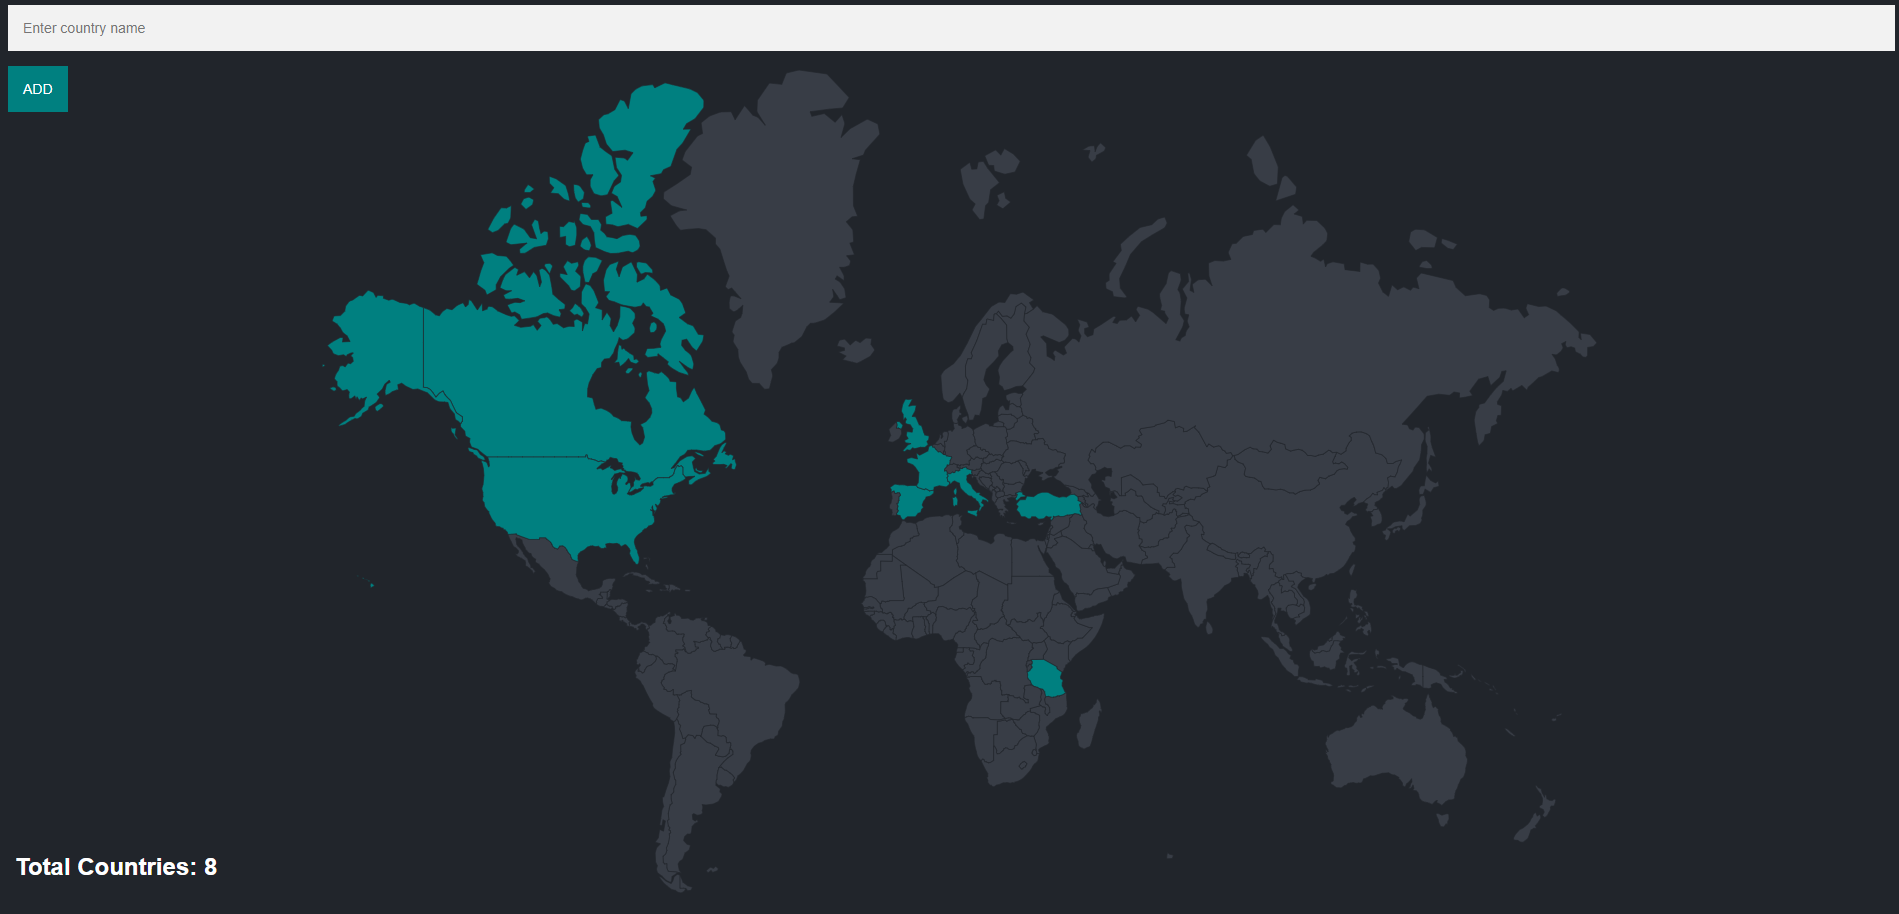
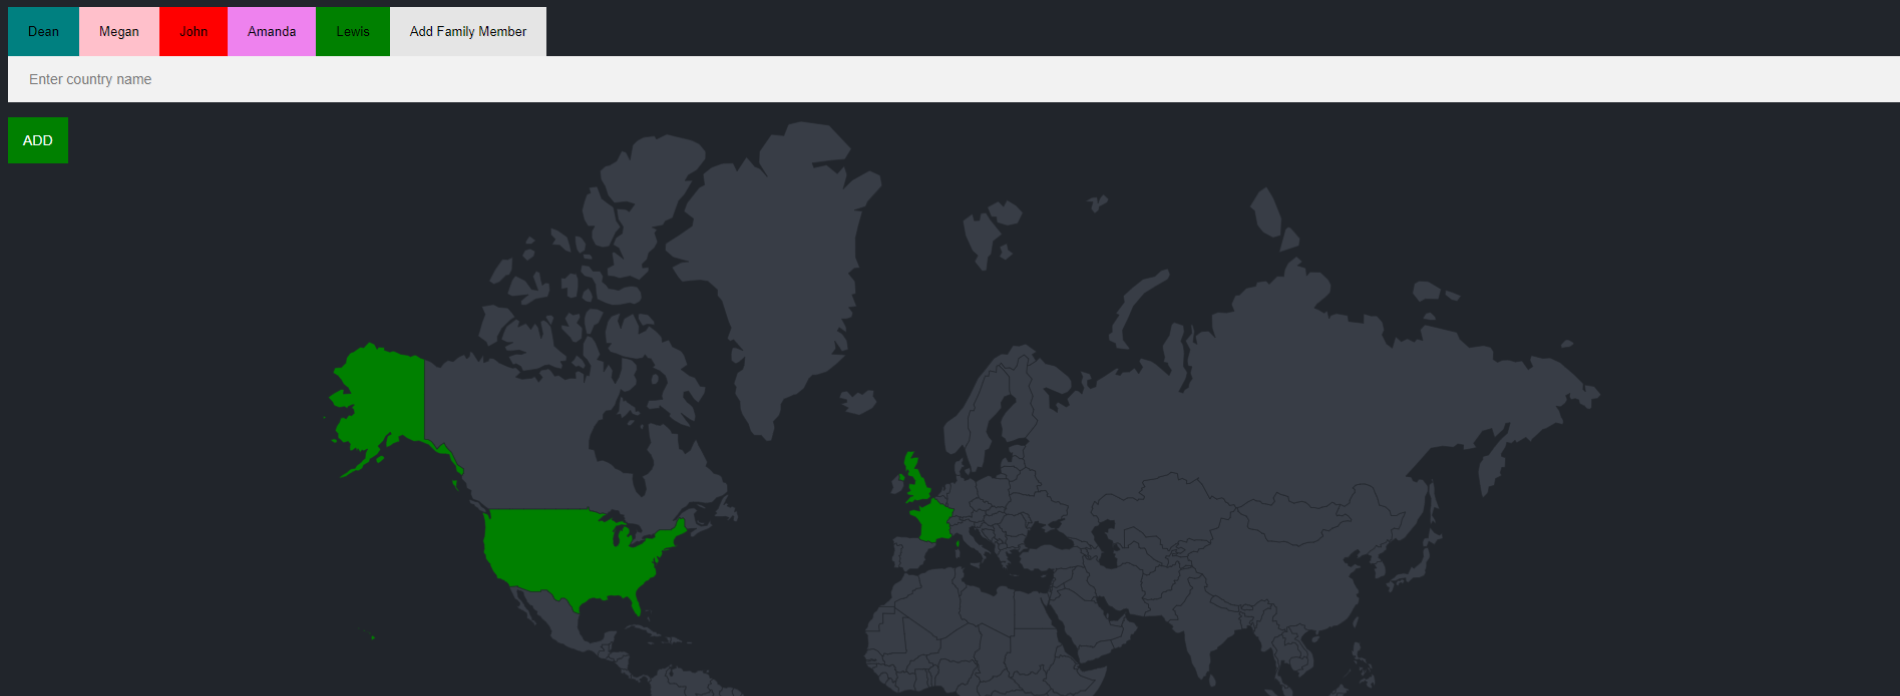
update travel tracker info and photo

diff --git a/public/projects.html b/public/projects.html
@@ -57,9 +57,9 @@
                     <div class="container">
                         <div class="carousel-caption">
                             <h1 class="projects-carousel">Travel Tracker Website</h1>
-                            <p class="projects-carousel">Website where you can track which countries you have visited. Website app made with Node, Express and PostGres.</p>
+                            <p class="projects-carousel">Website where you can track which countries you and your family/friends have visited. Website app made with Node, Express and PostGres.</p>
                             <p><a class="btn btn-lg btn-primary"
-                                    href="https://github.com/deanpaget1/Travel-tracker">Learn more</a></p>
+                                    href="https://github.com/deanpaget1/travel-tracker">Learn more</a></p>
                         </div>
                     </div>
                 </div>
